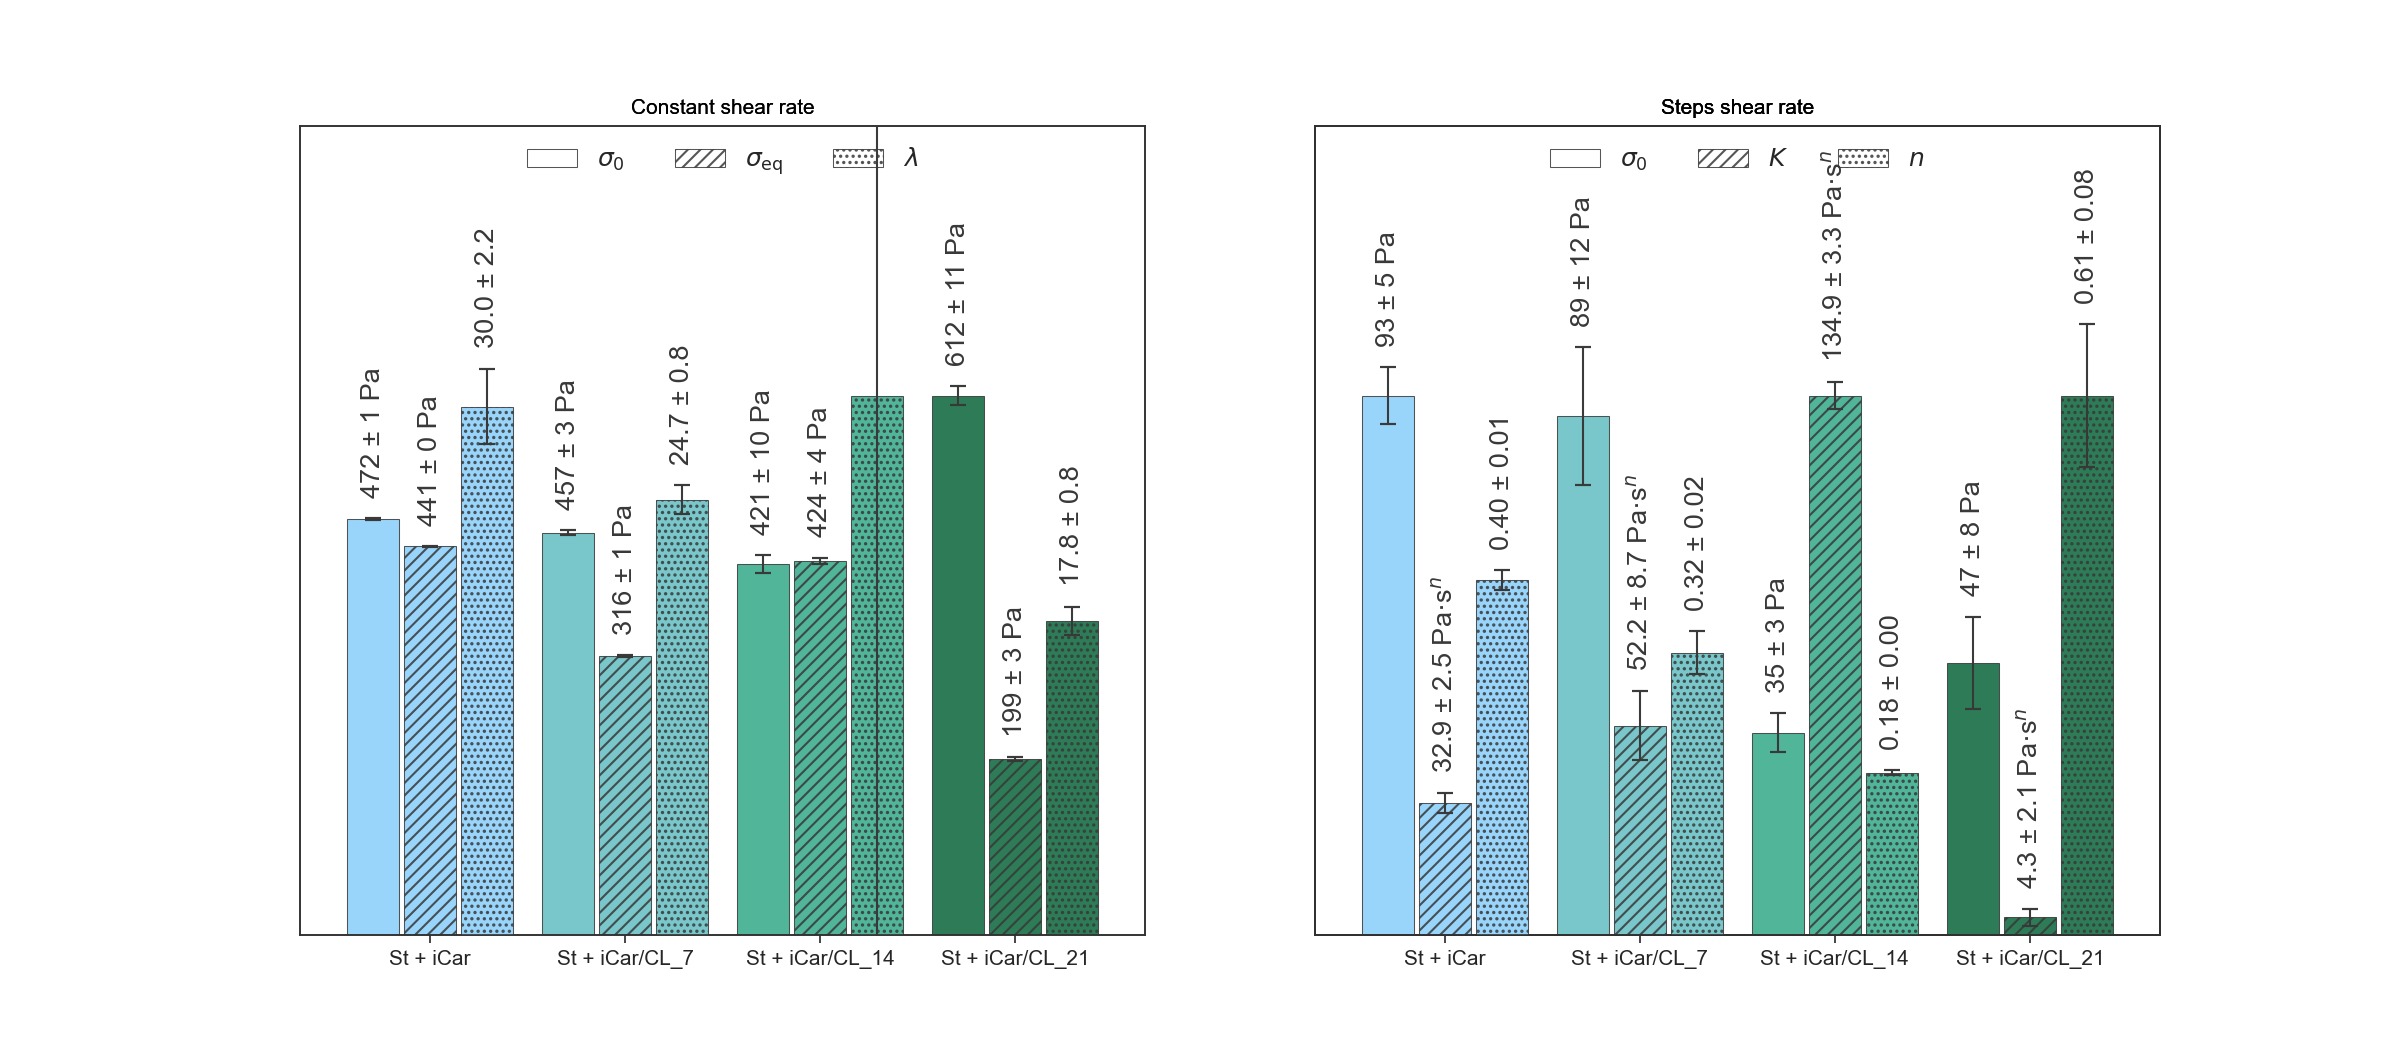
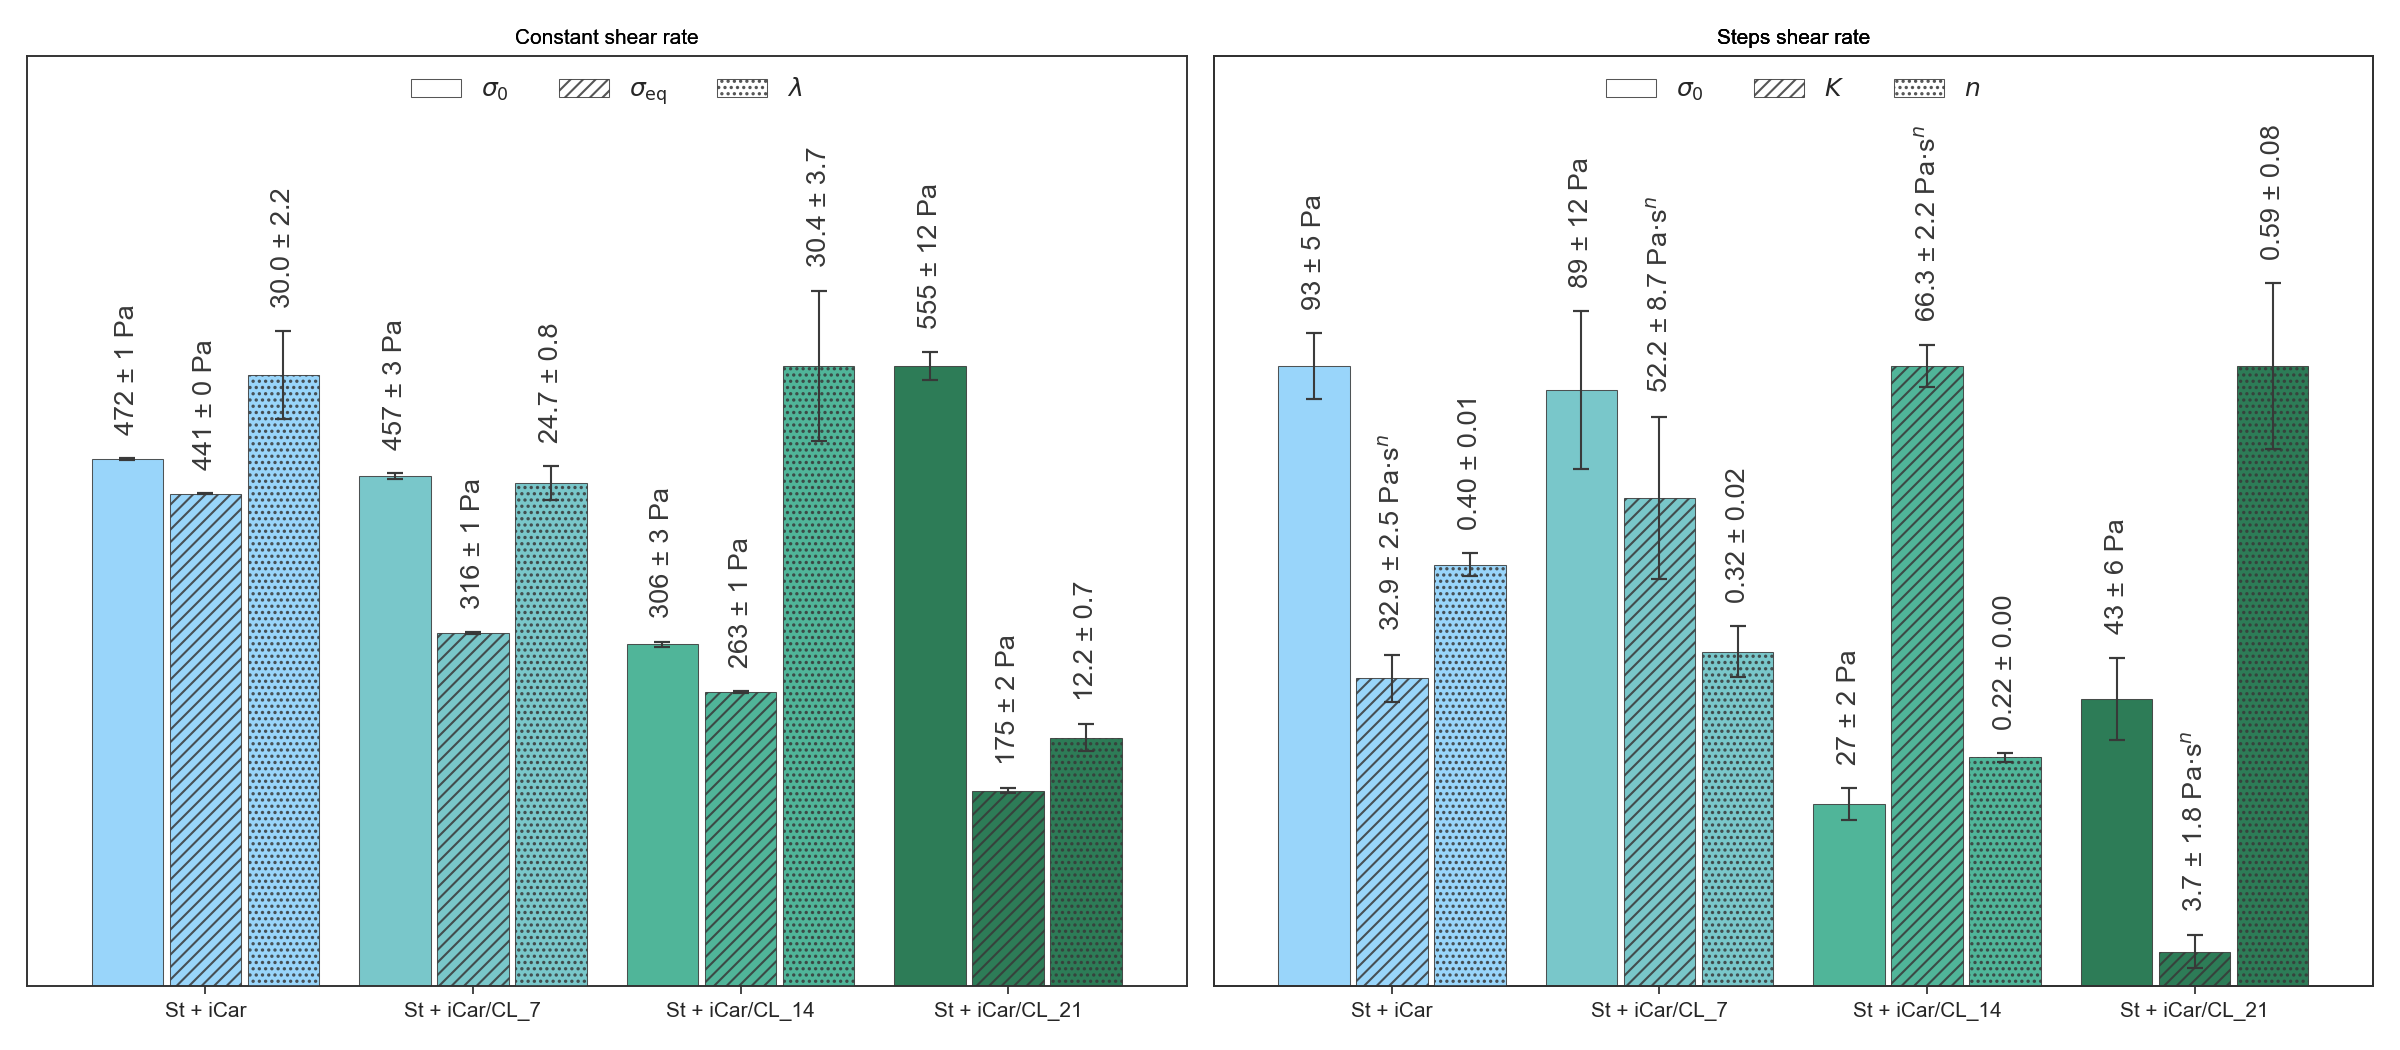
last updates

diff --git a/flow.py b/flow.py
@@ -194,7 +194,7 @@ def starch_kappa(folderPath):
         # St + kCar/CL_14
         folderPath + "/10St_kC_CL_14/St_kC_CL_14-viscoelasticRecovery-1.xlsx",
         # folderPath + "/10St_kC_CL_14/St_kC_CL_14-viscoelasticRecovery-2.xlsx",
-        folderPath + "/10St_kC_CL_14/St_kC_CL_14-viscoelasticRecovery-3.xlsx",
+        # folderPath + "/10St_kC_CL_14/St_kC_CL_14-viscoelasticRecovery-3.xlsx",
         # folderPath + "/10St_kC_CL_14/St_kC_CL_14-viscoelasticRecovery-4.xlsx",
 
         # St + kCar/CL_28
@@ -220,7 +220,7 @@ def starch_kappa(folderPath):
         # CL 7
         1,
         # CL 14
-        2,
+        1,
         # CL 28
         3,
     ]
@@ -263,15 +263,15 @@ def starch_iota(folderPath):
         folderPath + "/10St_iC_CL_7/10_0St_iC_CL-recovery-3.xlsx",
 
         # St + iCar/CL_14
-        folderPath + "/10St_iC_CL_14/0St_iC_CL_14-viscoelasticRecovery-1.xlsx",
-        # folderPath + "/10St_iC_CL_14/0St_iC_CL_14-viscoelasticRecovery-2.xlsx",
-        folderPath + "/10St_iC_CL_14/0St_iC_CL_14-viscoelasticRecovery-3.xlsx",
+        # folderPath + "/10St_iC_CL_14/0St_iC_CL_14-viscoelasticRecovery-1.xlsx",
+        folderPath + "/10St_iC_CL_14/0St_iC_CL_14-viscoelasticRecovery-2.xlsx",
+        # folderPath + "/10St_iC_CL_14/0St_iC_CL_14-viscoelasticRecovery-3.xlsx",
         # folderPath + "/10St_iC_CL_14/0St_iC_CL_14-viscoelasticRecovery-4.xlsx",
 
         # St + iCar/CL_28
         folderPath + "/10St_iC_CL_28/St_iC_CL_28-viscoelasticRecovery-1.xlsx",
         folderPath + "/10St_iC_CL_28/St_iC_CL_28-viscoelasticRecovery-2.xlsx",
-        folderPath + "/10St_iC_CL_28/St_iC_CL_28-viscoelasticRecovery-3.xlsx",
+        # folderPath + "/10St_iC_CL_28/St_iC_CL_28-viscoelasticRecovery-3.xlsx",
 
     ]
 
@@ -291,9 +291,9 @@ def starch_iota(folderPath):
         # CL 7
         3,
         # CL 14
-        2,
+        1,
         # CL 28
-        3,
+        2,
     ]
     cSamples = [
         # No CL
@@ -419,12 +419,11 @@ if __name__ == '__main__':
     path = "C:/Users/petrus.kirsten/PycharmProjects/Rheometer-Plotting/data/by sample"  # CEBB
     # path = "C:/Users/Petrus Kirsten/Documents/GitHub/RheometerPlots/data/by sample"  # Personal
 
+    # blends(path)
     # kappa(path)
     # iota(path)
-    starch(path)
-    starch_kappa(path)
+    # starch(path)
+    # starch_kappa(path)
     starch_iota(path)
-
-    # blends(path)
 
     plt.show()

diff --git a/rheology/plotting.py b/rheology/plotting.py
@@ -915,18 +915,23 @@ class Flow:
                 params, errors,
                 listRows, mode='thixo')
 
+            if sampleName == 'St + iCar':
+                x, y, yErr = x[::2], y[::2], yErr[::2]
+            else:
+                x, y, yErr = x[::4], y[::4], yErr[::4]
+
             ax.errorbar(
-                x[::2] if sampleName == 'St + iCar' else x[::4],
-                y[::2] if sampleName == 'St + iCar' else y[::4],
-                yerr=yErr[::2] if sampleName == 'St + iCar' else yErr[::4],
+                x,
+                y,
+                yerr=yErr if not '14' in sampleName else 40,
                 color=curveColor, alpha=.85,
                 fmt='none', mfc=curveColor,
                 capsize=2.5, capthick=1, lw=1, linestyle='',
                 label=f'', zorder=2)
 
             ax.errorbar(
-                x[::2] if sampleName == 'St + iCar' else x[::4],
-                y[::2] if sampleName == 'St + iCar' else y[::4],
+                x,
+                y,
                 yerr=0,
                 color=curveColor, alpha=.65,
                 fmt='D' if 'CL' in sampleName else 'o',
@@ -999,7 +1004,7 @@ class Flow:
                     zorder=2)
 
             ax.errorbar(
-                x, y, yerr=yErr,
+                x, y, yerr=yErr if not '14' in sampleName else 30,
                 color=curveColor, alpha=.85,
                 fmt='none', mfc=curveColor,
                 capsize=2.5, capthick=1, lw=1, linestyle='',
@@ -2168,7 +2173,6 @@ class BreakageCompression:
                                                 self.colors_samples,
                                                 ['o', 'p', 'D', 's'],
                                                 [5, 5.5, 4.5, 5]):
-
             strain, stress, stressErr = getValues()
 
             drawBreakage(
